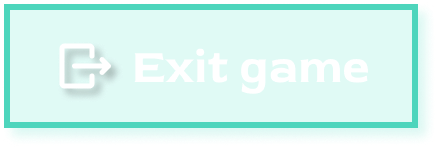
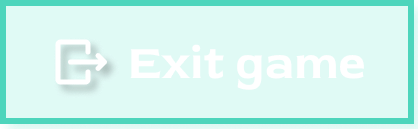
Implement game screen functionality and styles; add theme management and player selection

diff --git a/src/styles/_game.scss b/src/styles/_game.scss
@@ -1,0 +1,152 @@
+@use 'variables' as *;
+
+#game-screen {
+    width: 100%;
+    height: 100%;
+
+    &.theme-code_vibes {
+        background-color: #303131;
+    }
+    &.theme-gaming {
+        background-color: #294f60;
+    }
+    &.theme-da_projects {
+        background-color: #ffffff;
+    }
+    &.theme-foods {
+        background-color: #ffffff;
+    }
+
+    &.active {
+        @include center;
+    }
+}
+
+.game-content {
+    width: 100%;
+    max-width: 1440px;
+    height: 100%;
+    display: flex;
+    align-items: center;
+    flex-direction: column;
+}
+
+.game-header {
+    display: flex;
+    justify-content: space-between;
+    align-items: center;
+    width: 70%;
+    padding: 1rem 2rem;
+    margin-top: 32px;
+    border-radius: 8px;
+
+    #game-screen.theme-code_vibes & {
+        background-color: #303131;
+    }
+    #game-screen.theme-gaming & {
+        background-color: rgba(253, 150, 201, 0.2);
+    }
+    #game-screen.theme-da_projects & {
+        background-color: #f0f3f4;
+    }
+    #game-screen.theme-foods & {
+        background-color: #f0e5d9;
+    }
+}
+
+.game-score {
+    display: flex;
+    gap: 0.5rem;
+    background-color: white;
+    border-radius: 4px;
+
+    #game-screen.theme-code_vibes & {
+        background-color: #86E9D633;
+    }
+
+    .score {
+        padding: 0.4rem 0.8rem;
+        font-size: 1.5rem;
+        font-weight: bold;
+        border-radius: 6px;
+        display: flex;
+        align-items: center;
+        gap: 16px;
+
+        .score-icon {
+            height: 24px;
+        }
+
+        &.blue {
+            color: #2196F3;
+        }
+
+        &.orange {
+            color: #FF9800;
+        }
+    }
+}
+
+.game-current-player {
+    color: white;
+    font-size: 1.2rem;
+    font-weight: bold;
+    display: flex;
+    gap: 0.5rem;
+
+    #game-screen.theme-da_projects & {
+        color: #1E7594;
+    }
+
+    #game-screen.theme-foods & {
+        color: #A45212;
+    }
+
+    .player-icon {
+        display: inline-block;
+        height: 24px;
+        border-radius: 4px;
+    }
+}
+
+.exit-btn {
+    background: none;
+    border: none;
+    padding: 0;
+    cursor: pointer;
+
+    img {
+        height: 40px;
+        width: 133px;
+        object-fit: contain;
+    }
+}
+
+
+.game-board {
+    flex: 1;
+    @include center;
+    padding: 2rem;
+    padding-bottom: 0;
+
+    display: grid;
+    gap: 8px;
+    justify-content: flex-start;
+    align-content: flex-start;
+}
+
+.card {
+    width: 120px;
+    height: 120px;
+    border-radius: 12px;
+    cursor: pointer;
+    transition: transform 0.3s;
+
+    img {
+        width: 100%;
+        height: 100%;
+        object-fit: contain;
+        border-radius: 12px;
+    }
+}
+

diff --git a/src/screens/_game.ts b/src/screens/_game.ts
@@ -1,3 +1,66 @@
-export function initGameScreen(): void {
+import { GameSettings } from '../types/types';
+import { themes } from '../data/themes';
 
+export function initGameScreen(settings: GameSettings, onExit: () => void): void {
+    const themeData = themes[settings.theme];
+
+    const board = document.getElementById('game-board')!;
+    const scoreBlueIcon = document.getElementById('score-blue-icon') as HTMLImageElement;
+    const scoreOrangeIcon = document.getElementById('score-orange-icon') as HTMLImageElement;
+    const playerIcon = document.getElementById('current-player-icon') as HTMLImageElement;
+    const exitBtn = document.getElementById('exit-btn') as HTMLButtonElement;
+    const exitBtnImg = document.getElementById('exit-btn-img') as HTMLImageElement;
+
+    const gameScreen = document.getElementById('game-screen')!;
+    // Alte Theme-Klassen entfernen
+    gameScreen.classList.remove('theme-code_vibes', 'theme-gaming', 'theme-da_projects', 'theme-foods');
+    // Neue Theme-Klasse setzen
+    gameScreen.classList.add(`theme-${settings.theme}`);
+
+    // Score-Bilder setzen
+    scoreBlueIcon.src = themeData.scoreBlue;
+    scoreOrangeIcon.src = themeData.scoreOrange;
+    // Aktuellen Spieler-Icon setzen
+    playerIcon.src = settings.player === 'blue'
+        ? themeData.currentPlayerIconBlue
+        : themeData.currentPlayerIconOrange;
+
+    // Exit-Button Bild setzen
+    exitBtnImg.src = themeData.exitButtonDefault;
+    exitBtn.onmouseenter = () => exitBtnImg.src = themeData.exitButtonHover;
+    exitBtn.onmouseleave = () => exitBtnImg.src = themeData.exitButtonDefault;
+
+    // Exit-Button Klick
+    exitBtn.onclick = onExit;
+
+    // Board Grid setzen je nach Board-Size
+    const cols = settings.boardSize === 16 ? 4 : 6;
+    board.style.gridTemplateColumns = `repeat(${cols}, 120px)`;
+
+    // Karten erstellen
+    const cardCount = settings.boardSize / 2;
+    const selectedCards = themeData.cards.slice(0, cardCount);
+    const allCards = [...selectedCards, ...selectedCards];
+
+    // Karten mischen
+    for (let i = allCards.length - 1; i > 0; i--) {
+        const j = Math.floor(Math.random() * (i + 1));
+        [allCards[i], allCards[j]] = [allCards[j], allCards[i]];
+    }
+
+    // Board leeren und Karten einfügen
+    board.innerHTML = '';
+    allCards.forEach((cardImg, index) => {
+        const card = document.createElement('div');
+        card.classList.add('card');
+        card.dataset.cardIndex = String(index);
+        card.dataset.cardImg = cardImg;
+
+        const img = document.createElement('img');
+        img.src = themeData.cardBack;
+        img.alt = 'card';
+        card.appendChild(img);
+
+        board.appendChild(card);
+    });
 }

diff --git a/index.html b/index.html
@@ -33,7 +33,6 @@
                             <label><input type="radio" name="theme" value="da_projects"> DA Projects</label>
                             <label><input type="radio" name="theme" value="foods"> Food</label>
                         </form>
-
                         <form class="settings-group" id="player-group" autocomplete="off">
                             <h2><img src="/assets/images/settings_screen_icons/choosePlayerIcon.png" alt="" class="settings-icon"> Choose player</h2>
                             <label><input type="radio" name="player" value="blue"> Blue</label>
@@ -47,7 +46,6 @@
                             <label><input type="radio" name="boardsize" value="36"> 36 cards</label>
                         </form>
                     </div>
-
                     <div class="settings-right">
                         <div class="settings-preview">
                             <img id="theme-preview-img" src="/assets/images/themes/theme_version/codeVibes.png" alt="Theme Preview">
@@ -64,7 +62,33 @@
                 </div>  
             </div>
         </section>
-        <section id="game-screen" class="screen">...</section>
+
+        <section id="game-screen" class="screen">
+            <div class="game-content">
+                <div class="game-header">
+                    <div class="game-score">
+                        <span class="score blue">
+                            <img id="score-blue-icon" class="score-icon" src="" alt="blue">
+                            <span id="score-blue">0</span>
+                        </span>
+                        <span class="score orange">
+                            <img id="score-orange-icon" class="score-icon" src="" alt="orange">
+                            <span id="score-orange">0</span>
+                        </span>
+                    </div>
+                    <div class="game-current-player">
+                        Current player: <div class="playerIconContainer"><img id="current-player-icon" class="player-icon" src="" alt="player"></div>
+                    </div>
+                    <button class="exit-btn" id="exit-btn">
+                        <img id="exit-btn-img" src="" alt="exit">
+                    </button>
+                </div>
+
+                <div class="game-board" id="game-board">
+                    <!-- Karten werden per TypeScript generiert -->
+                </div>
+            </div>
+        </section>
     </div>
     
     <script type="module" src="/src/main.ts"></script>

diff --git a/src/data/themes.ts b/src/data/themes.ts
@@ -1,0 +1,23 @@
+import { Theme, ThemeData } from '../types/types';
+
+function createThemeData(folder: string): ThemeData {
+    const base = `/assets/images/themes/${folder}`;
+    return {
+        cardBack: `${base}/cardBack.png`,
+        cards: Array.from({ length: 18 }, (_, i) => `${base}/card_${i + 1}.png`),
+        exitButtonDefault: `${base}/exitButtonDefault.png`,
+        exitButtonHover: `${base}/exitButtonHover.png`,
+        currentPlayerIconBlue: `${base}/currentPlayerIconBlue.png`,
+        currentPlayerIconOrange: `${base}/currentPlayerIconOrange.png`,
+        scoreBlue: `${base}/gamePointCounterBlue.png`,
+        scoreOrange: `${base}/gamePointCounterOrange.png`,
+        matchStatus: `${base}/matchStatus.png`,
+    };
+}
+
+export const themes: Record<Theme, ThemeData> = {
+    code_vibes: createThemeData('code_vibes_theme'),
+    gaming: createThemeData('game_theme'),
+    da_projects: createThemeData('DA_projects_theme'),
+    foods: createThemeData('food_theme'),
+};

diff --git a/src/main.ts b/src/main.ts
@@ -1,6 +1,7 @@
 import './styles/styles.scss'
 import { initHomeScreen } from './screens/_home'
 import { initSettingsScreen } from './screens/_settings'
+import { initGameScreen } from './screens/_game'
 import { GameSettings } from './types/types'
 
 function showScreen(screenId: string) {
@@ -13,7 +14,9 @@ document.addEventListener('DOMContentLoaded', () => {
     initHomeScreen(showScreen);
 
     initSettingsScreen((settings: GameSettings) => {
-        console.log('Game startet mit:', settings);
         showScreen('game-screen');
+        initGameScreen(settings, () => {
+            showScreen('settings-screen');
+        });
     });
 });

diff --git a/src/types/types.ts b/src/types/types.ts
@@ -7,3 +7,15 @@ export interface GameSettings {
     player: Player;
     boardSize: BoardSize;
 }
+
+export interface ThemeData {
+    cardBack: string;
+    cards: string[];
+    exitButtonDefault: string;
+    exitButtonHover: string;
+    currentPlayerIconBlue: string;
+    currentPlayerIconOrange: string;
+    scoreBlue: string;
+    scoreOrange: string;
+    matchStatus: string;
+}

diff --git a/src/styles/_settings.scss b/src/styles/_settings.scss
@@ -11,8 +11,8 @@
 }
 
 .settings-content {
-    width: 90%;
-    max-width: 1200px;
+    width: 100%;
+    max-width: 1440px;
 }
 
 .settings-title {
